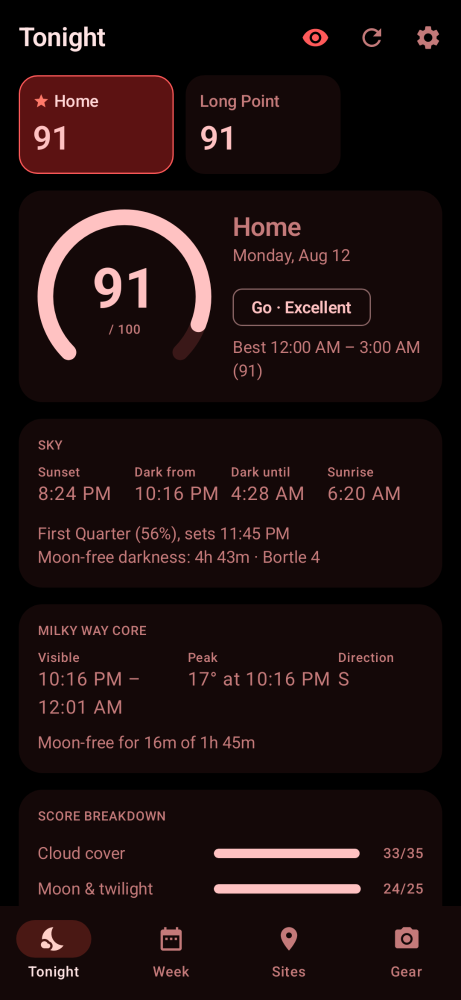
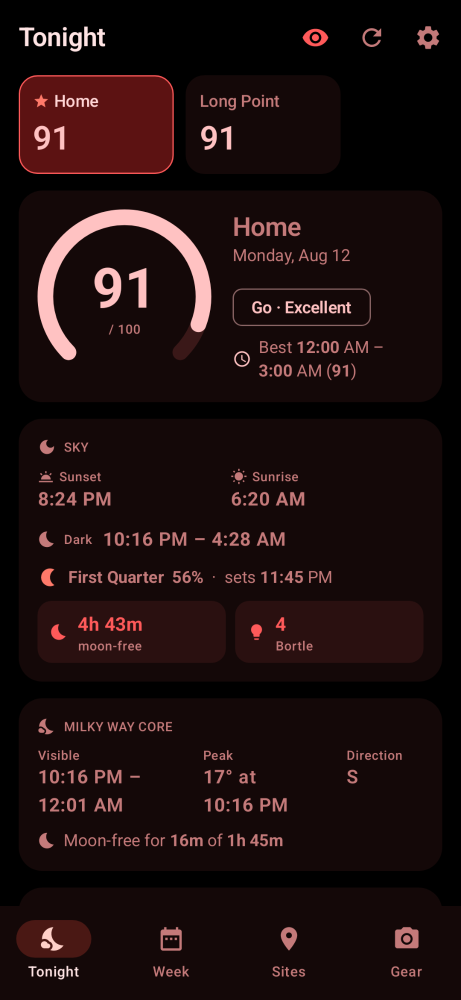
Refresh the night screenshots after the quieter detail layout.
The Milky Way times stay in the three-column row, and the README meteor frame is cropped to the cards the way the previous image was.

diff --git a/app/src/main/kotlin/app/nightbrief/app/ui/tonight/NightDetail.kt b/app/src/main/kotlin/app/nightbrief/app/ui/tonight/NightDetail.kt
@@ -36,7 +36,6 @@ import androidx.compose.material.icons.filled.Schedule
 import androidx.compose.material.icons.filled.Stars
 import androidx.compose.material.icons.filled.Thermostat
 import androidx.compose.material.icons.filled.Timeline
-import androidx.compose.material.icons.filled.Visibility
 import androidx.compose.material.icons.filled.WaterDrop
 import androidx.compose.material.icons.filled.WbSunny
 import androidx.compose.material.icons.filled.WbTwilight
@@ -50,6 +49,7 @@ import androidx.compose.material3.Text
 import androidx.compose.runtime.Composable
 import androidx.compose.runtime.getValue
 import androidx.compose.runtime.mutableStateOf
+import androidx.compose.runtime.remember
 import androidx.compose.runtime.saveable.rememberSaveable
 import androidx.compose.runtime.setValue
 import androidx.compose.ui.Alignment
@@ -431,7 +431,7 @@ private fun MeteorCard(meteor: MeteorOutlook, report: NightReport) {
  */
 @Composable
 private fun WhyBlock(title: String, detail: String) {
-    var open by rememberSaveable(title) { mutableStateOf(false) }
+    var open by remember(title) { mutableStateOf(false) }
     if (open) {
         Spacer(Modifier.height(6.dp))
         EmphasizedText(detail, color = MaterialTheme.colorScheme.onSurfaceVariant)
@@ -505,24 +505,13 @@ private fun MilkyWayCard(report: NightReport) {
             )
         } else {
             Row(Modifier.fillMaxWidth()) {
-                LabeledValue(
-                    stringResource(R.string.visible),
-                    Format.window(mw.window, zone),
-                    Modifier.weight(1.4f),
-                    icon = Icons.Filled.Visibility,
-                )
+                LabeledValue(stringResource(R.string.visible), Format.window(mw.window, zone), Modifier.weight(1.5f))
                 LabeledValue(
                     stringResource(R.string.peak),
                     stringResource(R.string.peak_altitude_at, Format.degrees(mw.peakAltitudeDeg), Format.time(mw.peakTime, zone)),
-                    Modifier.weight(1.4f),
-                    icon = Icons.Filled.Nightlight,
+                    Modifier.weight(1.3f),
                 )
-                LabeledValue(
-                    stringResource(R.string.direction),
-                    DigestComposer.compass(mw.peakAzimuthDeg),
-                    Modifier.weight(0.8f),
-                    icon = Icons.Filled.Explore,
-                )
+                LabeledValue(stringResource(R.string.direction), DigestComposer.compass(mw.peakAzimuthDeg), Modifier.weight(0.7f))
             }
             Spacer(Modifier.height(8.dp))
             val free = mw.moonFreeDuration

diff --git a/app/src/main/kotlin/app/nightbrief/app/ui/common/Components.kt b/app/src/main/kotlin/app/nightbrief/app/ui/common/Components.kt
@@ -181,26 +181,9 @@ fun SiteStrip(
 }
 
 @Composable
-fun LabeledValue(
-    label: String,
-    value: String,
-    modifier: Modifier = Modifier,
-    valueColor: Color = Color.Unspecified,
-    icon: ImageVector? = null,
-) {
+fun LabeledValue(label: String, value: String, modifier: Modifier = Modifier, valueColor: Color = Color.Unspecified) {
     Column(modifier) {
-        Row(verticalAlignment = Alignment.CenterVertically) {
-            if (icon != null) {
-                Icon(
-                    icon,
-                    contentDescription = null,
-                    modifier = Modifier.size(14.dp),
-                    tint = MaterialTheme.colorScheme.onSurfaceVariant,
-                )
-                Spacer(Modifier.width(4.dp))
-            }
-            Text(label, style = MaterialTheme.typography.labelSmall, color = MaterialTheme.colorScheme.onSurfaceVariant)
-        }
+        Text(label, style = MaterialTheme.typography.labelSmall, color = MaterialTheme.colorScheme.onSurfaceVariant)
         Text(emphasize(value), style = MaterialTheme.typography.bodyLarge, fontWeight = FontWeight.SemiBold, color = valueColor)
     }
 }

diff --git a/app/src/test/kotlin/app/nightbrief/app/ui/NightDetailQuietUiTest.kt b/app/src/test/kotlin/app/nightbrief/app/ui/NightDetailQuietUiTest.kt
@@ -67,7 +67,7 @@ class NightDetailQuietUiTest {
         compose.onNodeWithText("front element", substring = true).assertDoesNotExist()
         compose.onNodeWithContentDescription("Show Dew details").performScrollTo().performClick()
         compose.onNodeWithText("front element", substring = true).performScrollTo().assertIsDisplayed()
-        compose.onNodeWithContentDescription("Hide Dew details").performClick()
+        compose.onNodeWithContentDescription("Hide Dew details").performScrollTo().performClick()
         compose.onNodeWithText("front element", substring = true).assertDoesNotExist()
     }
 
